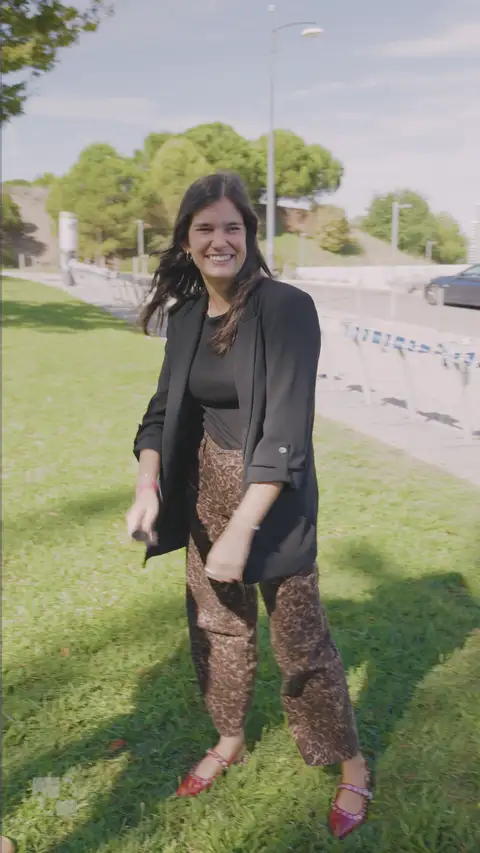
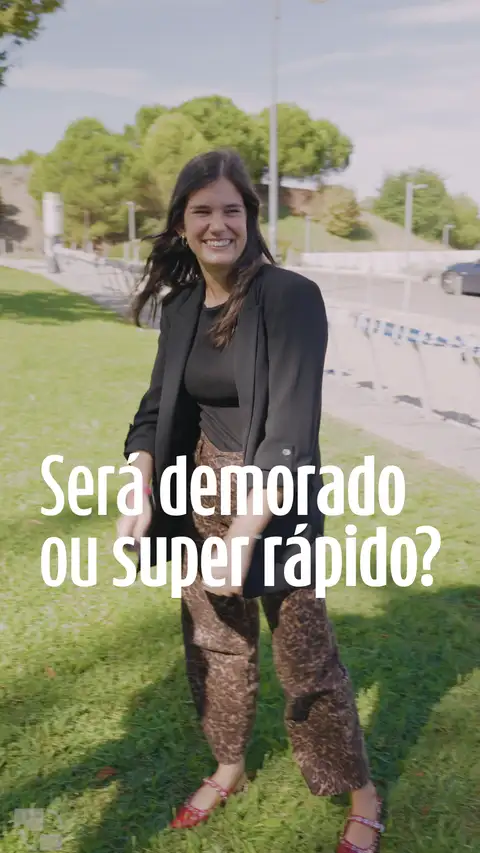
Short form: Santander, Ron Barcelo, Cofidis; canonicals www

diff --git a/js/translations.js b/js/translations.js
@@ -89,7 +89,7 @@ window.i18n = {
       reelsIntro: "Video production, filming and editing, for native social media distribution.",
       reelTag: "Reel",
       reelGroups: { uriage: "Uriage Portugal", ozEnergia: "Oz Energia", santander: "Santander", ronBarcelo: "Ron Barceló", cofidis: "Cofidis" },
-      reelsSantander: { 1: "Santander: the thriller that never happened.", 2: "Santander: a documentary-style take on domiciliation.", 3: "Santander: is it really a drama?", 4: "Santander vox pop: what would you do with 750€?", 5: "Santander vox pop: street interviews." },
+      reelsSantander: { 1: "Santander: the thriller that never happened.", 2: "Santander: a documentary-style take on domiciliation.", 3: "Santander: is it really a drama?", 4: "Santander vox pop: what would you do with 750€?", 5: "Santander vox pop: is it slow or super fast?" },
       reelsRon: { 1: "Ron Barceló: 404 Not Found, Barceló é a minha paz." },
       reelsCofidis: { 1: "Cofidis Portugal: social media reel." },
       items: {
@@ -222,7 +222,7 @@ window.i18n = {
       reelsIntro: "Produção de vídeo, filmagem e edição, para distribuição nativa em redes sociais.",
       reelTag: "Reel",
       reelGroups: { uriage: "Uriage Portugal", ozEnergia: "Oz Energia", santander: "Santander", ronBarcelo: "Ron Barceló", cofidis: "Cofidis" },
-      reelsSantander: { 1: "Santander: o thriller que nunca aconteceu.", 2: "Santander: domiciliar o ordenado, em formato documentário.", 3: "Santander: será que é mesmo um drama?", 4: "Vox pop Santander: o que farias com 750€?", 5: "Vox pop Santander: entrevistas de rua." },
+      reelsSantander: { 1: "Santander: o thriller que nunca aconteceu.", 2: "Santander: domiciliar o ordenado, em formato documentário.", 3: "Santander: será que é mesmo um drama?", 4: "Vox pop Santander: o que farias com 750€?", 5: "Vox pop Santander: será demorado ou super rápido?" },
       reelsRon: { 1: "Ron Barceló: 404 Not Found, Barceló é a minha paz." },
       reelsCofidis: { 1: "Cofidis Portugal: reel para redes sociais." },
       items: {
@@ -355,7 +355,7 @@ window.i18n = {
       reelsIntro: "Producción de vídeo, grabación y edición, para distribución nativa en redes sociales.",
       reelTag: "Reel",
       reelGroups: { uriage: "Uriage Portugal", ozEnergia: "Oz Energia", santander: "Santander", ronBarcelo: "Ron Barceló", cofidis: "Cofidis" },
-      reelsSantander: { 1: "Santander: el thriller que nunca ocurrió.", 2: "Santander: domiciliar la nómina, en formato documental.", 3: "Santander: ¿será de verdad un drama?", 4: "Vox pop Santander: ¿qué harías con 750€?", 5: "Vox pop Santander: entrevistas en la calle." },
+      reelsSantander: { 1: "Santander: el thriller que nunca ocurrió.", 2: "Santander: domiciliar la nómina, en formato documental.", 3: "Santander: ¿será de verdad un drama?", 4: "Vox pop Santander: ¿qué harías con 750€?", 5: "Vox pop Santander: ¿será lento o superrápido?" },
       reelsRon: { 1: "Ron Barceló: 404 Not Found, Barceló é a minha paz." },
       reelsCofidis: { 1: "Cofidis Portugal: reel para redes sociales." },
       items: {

diff --git a/index.html b/index.html
@@ -560,12 +560,12 @@
         </div>
       </a>
       <a class="reel-card" href="https://www.instagram.com/santanderpt/reel/DeMqKQeEs6J/" target="_blank" rel="noopener">
-        <img src="/assets/reels/reel-santander-voxpop2.webp" alt="Santander vox pop: street interviews" loading="lazy">
+        <img src="/assets/reels/reel-santander-voxpop2.webp" alt="Santander vox pop: is it slow or super fast?" loading="lazy">
         <span class="reel-overlay" aria-hidden="true"></span>
         <span class="reel-tag" data-i18n="video.reelTag">Reel</span>
         <div class="reel-text">
           <h4>Santander</h4>
-          <p data-i18n="video.reelsSantander.5">Santander vox pop: street interviews.</p>
+          <p data-i18n="video.reelsSantander.5">Santander vox pop: is it slow or super fast?.</p>
         </div>
       </a>
     </div>
